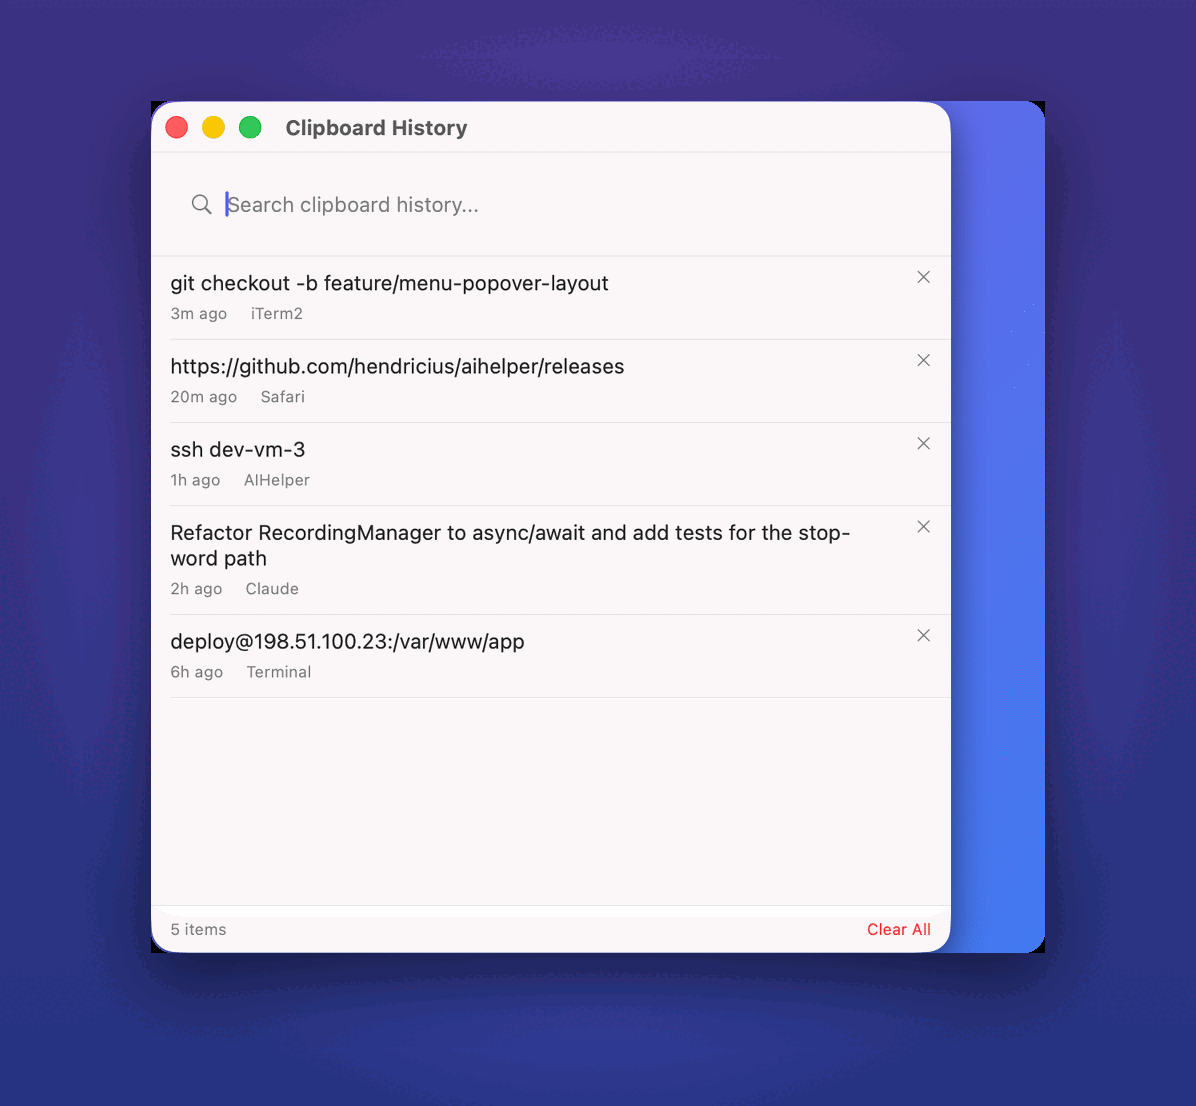
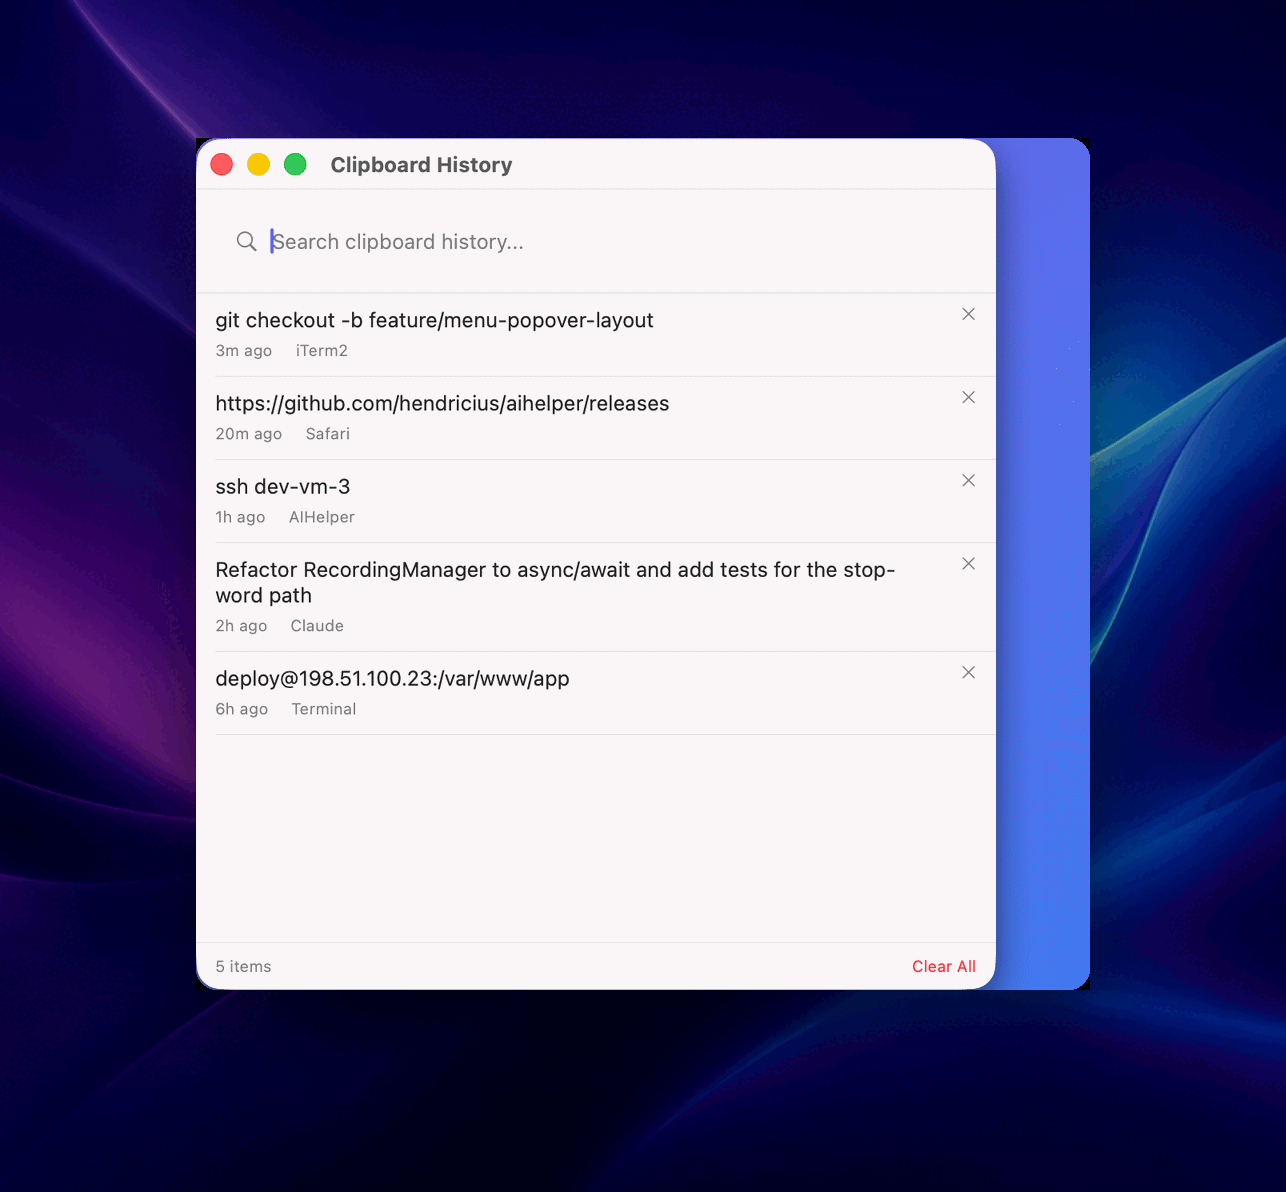
docs: pro screenshots — app in context on a macOS desktop
Re-shot every screenshot on an AI-generated aurora desktop wallpaper. The
menu-bar popover now reads as frosted glass on a colorful desktop instead
of gray; Settings windows float with soft shadows. Adds a wide hero banner.

diff --git a/README.md b/README.md
@@ -8,7 +8,7 @@ or casual message — all from the menu bar. It also ships with a **built-in Hyp
 **Open source · MIT licensed · created by Hendrik Kleinwächter.**
 
 <p align="center">
-  <img src="docs/screenshots/menu-popover.png" width="340" alt="AIHelper menu-bar popover: recording controls, hotkeys, hands-free wake word, your development machines, and recent transcriptions">
+  <img src="docs/screenshots/hero.png" width="840" alt="AIHelper on macOS: the menu-bar popover with recording controls and your development machines, next to the Settings window, on a macOS desktop">
 </p>
 
 ## Download
